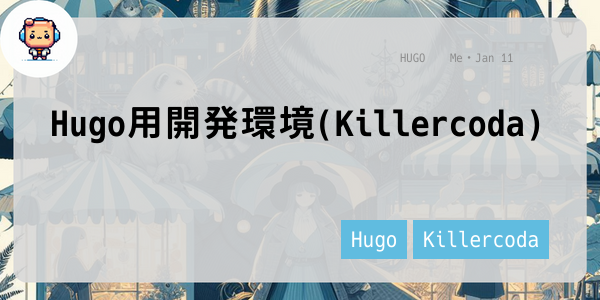
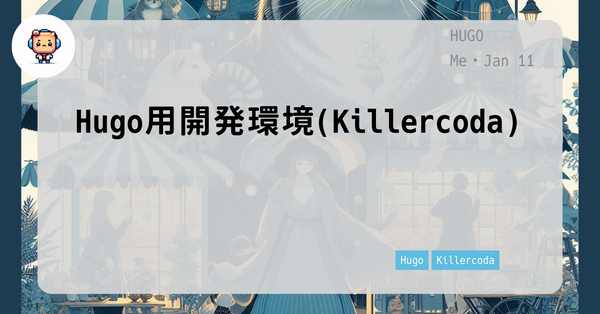
update images

Changed region(s): [[0.0, 0.0, 1.0, 1.0], [0.75, 0.18, 0.9, 0.21], [0.66, 0.18, 0.72, 0.21]]

diff --git a/content/posts/KillerCoda/create_scenario/index.md b/content/posts/KillerCoda/create_scenario/index.md
@@ -9,8 +9,8 @@ author: "Me"
 showToc: true
 TocOpen: false
 draft: false
-# cover:
-    # image: "/images/eyecatch/KillerCoda/create_scenario/index.png" # image path/url
+cover:
+  image: "/images/eyecatch/KillerCoda/create_scenario/index.png"
 ---
 # 概要
 
